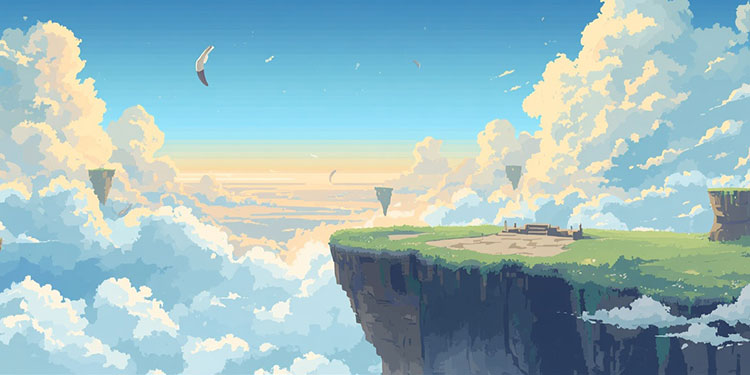
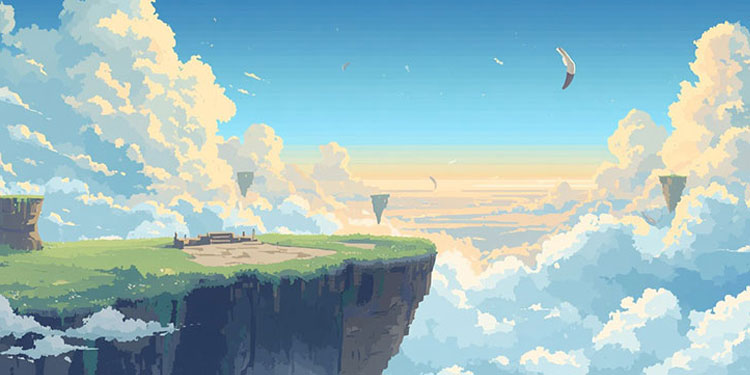
Add Pokemon Natures and a night-time route3 battle background
Natures: every starter/caught/gifted Pokemon now rolls one of 25
natures (+-10% to one battle stat, never HP), wired into damage and
speed calc, shown in the Lab/Pokedex popup, documented in the FAQ.

Adds battle-bg-route3.jpg to the random route battle backdrop pool,
paired with grass_night_base1 for its platform base since it's a
night scene, and updates Talon's Gym Leader background art.

diff --git a/game.js b/game.js
@@ -862,23 +862,19 @@
   const IMG_DIR_SHINY = "pixel_pack/shiny";
   const IMG_DIR_BACK = "pixel_pack/back";
   const WILD_COUNT = 9; // shown as three rows of 3
-  // "Easy" wild Pokémon = a high base_species_rate (top ~44% of the non-legendary
-  // pool). The first 2 encounters draw only from this pool; from encounter 3 on,
-  // easy slots progressively give way to the unrestricted pool (which can include
-  // rarer, lower catch-rate, higher-BST Pokémon), so difficulty ramps with progress.
-  // Lowered from 0.3 — widens the early-game pool (~469 -> ~590 species)
-  // so the "100%-easy" opening encounters (and the generation-diversity
-  // fallback below) have more raw variety to draw from, on top of the
-  // cross-run cooldown in freshWildPool() — the two together are meant to
-  // fix "every run's early encounters look the same".
-  const EASY_CATCH_RATE_MIN = 0.2;
+  // Three explicit BST bands instead of the old base_species_rate proxy for
+  // "easy" — the first 2 encounters draw only from the Easy band; from
+  // encounter 3 on, easy slots progressively give way to the Mid band
+  // (rarer, tougher catches), so difficulty ramps with progress.
+  const EASY_BST_MIN = 175, EASY_BST_MAX = 395;
+  const MID_BST_MIN = 230, MID_BST_MAX = 500;
   const ALL_EASY_ENCOUNTERS = 2;   // encounters 1 and 2 are 100% easy pool
   const MIN_EASY_SLOTS = 1;        // never fully removes the easy option
-  // Past 4 badges, wild encounters skew further toward rarer, stronger
+  // Past 5 badges, wild encounters skew further toward rarer, stronger
   // catches: 1 fewer easy slot, and non-easy slots preferentially pull from
-  // this high-BST pool instead of the fully unrestricted one.
-  const BADGES_FOR_RARITY_RAMP = 4;
-  const WILD_STRONG_MIN_BST = 420;
+  // this high-BST band instead of the Mid one.
+  const BADGES_FOR_RARITY_RAMP = 5;
+  const WILD_STRONG_MIN_BST = 400, WILD_STRONG_MAX_BST = 670;
   const BASE_BALL_COUNT = 5;
   const STARTING_GOLD = 50;
   const BASE_REROLL_COUNT = 1; // free wild-encounter rerolls per run (more buyable at the PokeStop)
@@ -1475,6 +1471,54 @@
     }
     return out;
   }
+  // ---------- NATURES ----------
+  // Each caught/starter/gifted Pokémon gets one nature, rolled once at the
+  // moment it becomes an individual (see rollNature() callers) and kept for
+  // the rest of the run (persists through evolution). +10%/-10% to one of
+  // attack/defense/sp_atk/sp_def/speed, never HP, matching the mainline
+  // games. 5 of the 25 are neutral (plus/minus both null).
+  const NATURES = [
+    { name:'Hardy',   plus:null,      minus:null },
+    { name:'Lonely',  plus:'attack',  minus:'defense' },
+    { name:'Brave',   plus:'attack',  minus:'speed' },
+    { name:'Adamant', plus:'attack',  minus:'sp_atk' },
+    { name:'Naughty', plus:'attack',  minus:'sp_def' },
+    { name:'Bold',    plus:'defense', minus:'attack' },
+    { name:'Docile',  plus:null,      minus:null },
+    { name:'Relaxed', plus:'defense', minus:'speed' },
+    { name:'Impish',  plus:'defense', minus:'sp_atk' },
+    { name:'Lax',     plus:'defense', minus:'sp_def' },
+    { name:'Timid',   plus:'speed',   minus:'attack' },
+    { name:'Hasty',   plus:'speed',   minus:'defense' },
+    { name:'Serious', plus:null,      minus:null },
+    { name:'Jolly',   plus:'speed',   minus:'sp_atk' },
+    { name:'Naive',   plus:'speed',   minus:'sp_def' },
+    { name:'Modest',  plus:'sp_atk',  minus:'attack' },
+    { name:'Mild',    plus:'sp_atk',  minus:'defense' },
+    { name:'Quiet',   plus:'sp_atk',  minus:'speed' },
+    { name:'Bashful', plus:null,      minus:null },
+    { name:'Rash',    plus:'sp_atk',  minus:'sp_def' },
+    { name:'Calm',    plus:'sp_def',  minus:'attack' },
+    { name:'Gentle',  plus:'sp_def',  minus:'defense' },
+    { name:'Sassy',   plus:'sp_def',  minus:'speed' },
+    { name:'Careful', plus:'sp_def',  minus:'sp_atk' },
+    { name:'Quirky',  plus:null,      minus:null },
+  ];
+  const NATURE_STAT_MULTIPLIER = 0.1;
+  function rollNature(){ return pick(NATURES); }
+
+  // Applies mon's nature to one of its base stats — HP is never passed
+  // in here, nature doesn't touch it. Used both for real damage/speed
+  // math (computeDamage(), effectiveSpeed()) and for the Pokédex stat
+  // display, so both stay in sync automatically.
+  function natureAdjustedStat(mon, statKey, baseValue){
+    const nature = mon && mon.nature;
+    if(!nature) return baseValue;
+    if(nature.plus === statKey) return Math.round(baseValue * (1 + NATURE_STAT_MULTIPLIER));
+    if(nature.minus === statKey) return Math.round(baseValue * (1 - NATURE_STAT_MULTIPLIER));
+    return baseValue;
+  }
+
   function initials(name){ return name.split(/[\s-]+/).map(w=>w[0]).slice(0,2).join('').toUpperCase(); }
   function imagePath(mon, variant){
     // Back sprites have no separate shiny set, so shinies fall back to the
@@ -1644,14 +1688,22 @@
   // meaningfully different at the high end instead of all maxing out.
   const POKEDEX_STAT_BAR_MAX = 200;
 
-  function pokedexStatRowsHTML(species){
+  // `mon` (the actual individual, for its .nature) is optional — omitted
+  // when this is showing a bare species (e.g. an evolution-line preview
+  // with no specific individual behind it), in which case no nature tag
+  // is shown at all.
+  function pokedexStatRowsHTML(species, mon){
+    const nature = mon && mon.nature;
     return POKEDEX_STAT_FIELDS.map(([field,label]) => {
       const val = species[field] || 0;
       const pct = Math.min(100, (val / POKEDEX_STAT_BAR_MAX) * 100);
+      const natureTag = nature && field !== 'hp' && (nature.plus === field || nature.minus === field)
+        ? `<span class="pokedex-stat-nature">${nature.plus === field ? '+' : '-'}${NATURE_STAT_MULTIPLIER * 100}%</span>`
+        : '';
       return `<div class="pokedex-stat-row">
         <span class="pokedex-stat-label">${label}</span>
         <div class="pokedex-stat-track"><div class="pokedex-stat-fill" style="width:${pct}%"></div></div>
-        <span class="pokedex-stat-val">${val}</span>
+        <span class="pokedex-stat-val">${val}${natureTag}</span>
       </div>`;
     }).join('');
   }
@@ -1738,11 +1790,12 @@
         <div class="pokedex-portrait">${avatarHTML(mon)}</div>
         <div class="tn">${displayName(mon.name)}${mon.is_shiny ? ' <span class="shiny-tag">SHINY</span>' : ''}</div>
         <div class="pokedex-types">${typeChipsHTML(mon.types)}</div>
+        ${mon.nature ? `<div class="pokedex-nature">${mon.nature.name} nature</div>` : ''}
       </div>
       ${canMega ? `<button class="btn-ghost pokedex-mega-btn" id="pokedexMegaBtn">MEGA EVOLVE (${inv.megaStone} Mega Stone${inv.megaStone === 1 ? '' : 's'} left)</button>` : ''}
       ${pokedexEvolutionHTML(mon)}
       <div class="team-mgmt-title" style="margin-top:10px;">Base Stats</div>
-      <div class="pokedex-stats">${pokedexStatRowsHTML(species)}</div>
+      <div class="pokedex-stats">${pokedexStatRowsHTML(species, mon)}</div>
       <div class="team-mgmt-title" style="margin-top:10px;">Moves</div>
       <div class="pokedex-moves">${pokedexMovesHTML(mon)}</div>
       <div class="team-mgmt-title" style="margin-top:10px;">Type Matchups</div>
@@ -3556,9 +3609,9 @@
 
   function selectStarter(mon){
     devGodModeRunActive = false; // a real run always clears any earlier God Mode test run's flag
-    starter = mon;
+    starter = { ...mon, nature: rollNature() };
     starterOriginalName = mon.name;
-    activeTeam = [mon];
+    activeTeam = [starter];
     storage_ = [];
     // Gold is per-run spending money, not a meta-progression currency — any
     // leftover from a previous run must not carry into this new one.
@@ -3812,11 +3865,21 @@
   }
 
   function wildEasyPool(){
-    return freshWildPool().filter(p => (p.base_species_rate ?? 0) >= EASY_CATCH_RATE_MIN);
+    return freshWildPool().filter(p => p.bst >= EASY_BST_MIN && p.bst <= EASY_BST_MAX);
+  }
+
+  // The "mid-run" tier (before BADGES_FOR_RARITY_RAMP) — a band rather than
+  // the fully unrestricted pool, so difficulty still ramps smoothly between
+  // Easy and Strong instead of jumping straight to "anything goes." The
+  // truly unrestricted freshWildPool() is kept as a fallback/backfill only
+  // (see pickWildChoices()), for the rare case a generation has nothing in
+  // this band left this run.
+  function wildMidPool(){
+    return freshWildPool().filter(p => p.bst >= MID_BST_MIN && p.bst <= MID_BST_MAX);
   }
 
   function wildStrongPool(){
-    return freshWildPool().filter(p => p.bst >= WILD_STRONG_MIN_BST);
+    return freshWildPool().filter(p => p.bst >= WILD_STRONG_MIN_BST && p.bst <= WILD_STRONG_MAX_BST);
   }
 
   // Builds this encounter's wild choices (WILD_COUNT of them). Early on it's all easy-to-catch
@@ -3838,6 +3901,7 @@
   function pickWildChoices(){
     const full = freshWildPool();
     const easy = wildEasyPool();
+    const mid = wildMidPool();
     const strong = wildStrongPool();
 
     let easySlots;
@@ -3854,7 +3918,7 @@
     const usedNames = new Set();
     const result = [];
     gensShuffled.forEach(g => {
-      const tierPool = easyGens.has(g.gen) ? easy : (useStrongForRest ? strong : full);
+      const tierPool = easyGens.has(g.gen) ? easy : (useStrongForRest ? strong : mid);
       let candidates = tierPool.filter(p => generationOf(p.id) === g.gen && !usedNames.has(p.name));
       if(!candidates.length) candidates = full.filter(p => generationOf(p.id) === g.gen && !usedNames.has(p.name));
       if(!candidates.length) return; // nothing left for this generation this run — backfilled below
@@ -4279,13 +4343,17 @@
   // counters, omitted for a normal wild-encounter catch, which counts toward
   // neither.
   function catchWildTarget(mon, source){
-    if(activeTeam.length < MAX_PARTY_SIZE) activeTeam.push(mon);
-    else storage_.push(mon);
-    flagComputerNotification(mon.name);
-    logCatch(mon.name);
+    // Always a fresh individual copy (never the shared POKEMON_BY_NAME/pool
+    // reference) so its own rolled nature never leaks onto every other
+    // encounter of the same species.
+    const caught = { ...mon, nature: rollNature() };
+    if(activeTeam.length < MAX_PARTY_SIZE) activeTeam.push(caught);
+    else storage_.push(caught);
+    flagComputerNotification(caught.name);
+    logCatch(caught.name);
     if(source === 'safari') safariCatchCount++;
     else if(source === 'fishing') fishingCatchCount++;
-    return maybeDittoCopy(mon);
+    return maybeDittoCopy(caught);
   }
 
   // Ditto: transforms into / copies whatever it's near — a small chance a
@@ -4296,7 +4364,7 @@
   function maybeDittoCopy(mon){
     if(!hasActiveSpecies(n => n === 'ditto')) return null;
     if(Math.random() >= DITTO_COPY_CHANCE) return null;
-    const copy = { ...mon };
+    const copy = { ...mon, nature: rollNature() };
     storage_.push(copy);
     logCatch(copy.name);
     return copy;
@@ -5285,7 +5353,7 @@
   // matching the mainline games. Raw mon.speed is still what's stored/shown
   // everywhere else (team screens, Pokédex, etc).
   function effectiveSpeed(b){
-    const spd = b.mon.speed || 0;
+    const spd = natureAdjustedStat(b.mon, 'speed', b.mon.speed || 0);
     return (b.status && b.status.type === 'paralyze') ? spd * PARALYSIS_SPEED_MULTIPLIER : spd;
   }
 
@@ -5403,8 +5471,10 @@
       return { dmg: canCounter ? Math.max(1, taken.amount * 2) : 0, eff, crit:false, failed: !canCounter };
     }
 
-    const atkStat = move.damage_class === 'special' ? (attacker.mon.sp_atk || 40) : (attacker.mon.attack || 40);
-    const defStat = move.damage_class === 'special' ? (defender.mon.sp_def || 40) : (defender.mon.defense || 40);
+    const atkStatKey = move.damage_class === 'special' ? 'sp_atk' : 'attack';
+    const defStatKey = move.damage_class === 'special' ? 'sp_def' : 'defense';
+    const atkStat = natureAdjustedStat(attacker.mon, atkStatKey, attacker.mon[atkStatKey] || 40);
+    const defStat = natureAdjustedStat(defender.mon, defStatKey, defender.mon[defStatKey] || 40);
     const { stab, eff } = stabAndEffectiveness(attacker, defender, move);
     const base = ((2*50/5 + 2) * move.power * (atkStat/Math.max(1,defStat))) / 50 + 2;
     const variance = rand(0.85, 1.0);
@@ -5514,7 +5584,8 @@
     const currentMon = activeTeam[idx];
     delete evolvePityMisses[currentMon.name];
     const evolvedBase = rollRegionalEvolution(POKEMON_BY_NAME[pick(evolutionOptionsFor(currentMon.name))]);
-    const evolved = (currentMon.is_shiny && canBeShiny(evolvedBase)) ? { ...evolvedBase, is_shiny:true } : evolvedBase;
+    const evolved = { ...evolvedBase, nature: currentMon.nature,
+      ...((currentMon.is_shiny && canBeShiny(evolvedBase)) ? { is_shiny:true } : {}) };
     activeTeam[idx] = evolved;
     if(currentMon === starter) starter = evolved; // keep the starter reference current through evolution
     return { from: currentMon, to: evolved };
@@ -5540,7 +5611,8 @@
     if(!forms || !forms.length) return null;
     const chosenName = (formName && forms.includes(formName)) ? formName : forms[0];
     const evolvedBase = POKEMON_BY_NAME[chosenName];
-    const evolved = (currentMon.is_shiny && canBeShiny(evolvedBase)) ? { ...evolvedBase, is_shiny:true } : evolvedBase;
+    const evolved = { ...evolvedBase, nature: currentMon.nature,
+      ...((currentMon.is_shiny && canBeShiny(evolvedBase)) ? { is_shiny:true } : {}) };
     activeTeam[idx] = evolved;
     if(currentMon === starter) starter = evolved;
     return { from: currentMon, to: evolved, isMega:true };
@@ -5715,7 +5787,9 @@
       if(rayquaza) legendaryPool.push(rayquaza);
     }
     let legendaryMon = pick(legendaryPool);
-    if(canBeShiny(legendaryMon) && Math.random() < SHINY_CHANCE) legendaryMon = { ...legendaryMon, is_shiny:true };
+    legendaryMon = (canBeShiny(legendaryMon) && Math.random() < SHINY_CHANCE)
+      ? { ...legendaryMon, is_shiny:true, nature: rollNature() }
+      : { ...legendaryMon, nature: rollNature() };
     openSpecialIntro(legendaryMon, 'legendary');
   }
 
@@ -5758,7 +5832,9 @@
   function startMythicalBattle(){
     const mythicalPool = POKEMON.filter(p => p.id <= NATIONAL_DEX_MAX && MYTHICAL_POKEMON.includes(p.name));
     let mythicalMon = pick(mythicalPool);
-    if(canBeShiny(mythicalMon) && Math.random() < SHINY_CHANCE) mythicalMon = { ...mythicalMon, is_shiny:true };
+    mythicalMon = (canBeShiny(mythicalMon) && Math.random() < SHINY_CHANCE)
+      ? { ...mythicalMon, is_shiny:true, nature: rollNature() }
+      : { ...mythicalMon, nature: rollNature() };
     openSpecialIntro(mythicalMon, 'mythical');
   }
 
@@ -5886,7 +5962,7 @@
         <span class="c-name">${displayName(m.name)}${m.is_shiny ? ' <span class="shiny-tag">SHINY</span>' : ''}</span>
         <div class="pick-tooltip">
           <div class="c-types">${typeChipsHTML(m.types)}</div>
-          <div class="pokedex-stats">${pokedexStatRowsHTML(species)}</div>
+          <div class="pokedex-stats">${pokedexStatRowsHTML(species, m)}</div>
           ${legendaryMatchupHTML(m, mon)}
         </div>
       </button>`;
@@ -6356,7 +6432,7 @@
   // Elite/Legendary/Mythical/Hill, all of which get their own dedicated art
   // below — alternate between these two so route fights don't all look
   // identical, picked fresh each time a battle starts.
-  const ROUTE_BATTLE_BACKGROUNDS = ["assets/Scenarios/battle-bg-route1.jpg", "assets/Scenarios/battle-bg-route2.jpg"];
+  const ROUTE_BATTLE_BACKGROUNDS = ["assets/Scenarios/battle-bg-route1.jpg", "assets/Scenarios/battle-bg-route2.jpg", "assets/Scenarios/battle-bg-route3.jpg"];
   function randomRouteBattleBg(){ return pick(ROUTE_BATTLE_BACKGROUNDS); }
   function isPlainRouteTrainer(opponent){
     return !(opponent.isGym || opponent.isCruise || opponent.isRival || opponent.isElite || opponent.isLegendary || opponent.isMythical || opponent.isHillTop1 || opponent.isInfiniteLoop);
@@ -7901,7 +7977,7 @@
     const catchable = catchablePool().filter(p => !MYTHICAL_POKEMON.includes(p.name) && !p.types.includes('dragon'));
     const avgBst = tradeGiveCandidates.reduce((sum, c) => sum + c.mon.bst, 0) / tradeGiveCandidates.length;
     const banded = catchable.filter(p => p.bst >= avgBst * 0.8 && p.bst <= avgBst * 1.2);
-    tradeOfferMon = pick(banded.length ? banded : catchable);
+    tradeOfferMon = { ...pick(banded.length ? banded : catchable), nature: rollNature() };
 
     document.getElementById('tradeOfferHeading').textContent = `${trainer.name} wants to trade!`;
     renderTradeOfferPhase();
@@ -8355,7 +8431,11 @@
   // Shop's Token Exchange), so canBeShiny() is filtered in here rather than
   // at each call site, no species without shiny art can ever be offered.
   function tokenExchangePool(){
-    return catchablePool().filter(p => !MYTHICAL_POKEMON.includes(p.name) && isFinalEvolutionStage(p.name) && canBeShiny(p));
+    // !p.legendary is already implied by catchablePool() -> wildPool()
+    // upstream, but spelled out explicitly here too since a Key Prize
+    // Legendary/Mythical would badly undercut the real Legendary/Mythical
+    // encounters if that upstream filter ever changed.
+    return catchablePool().filter(p => !p.legendary && !MYTHICAL_POKEMON.includes(p.name) && isFinalEvolutionStage(p.name) && canBeShiny(p));
   }
 
   // Same row system as the PokeStop's own shop (renderPokestopShopGrid()) —
@@ -8392,7 +8472,7 @@
     casinoTokens -= item.cost;
     if(item.isExchange){
       const pool = tokenExchangePool();
-      const won = pool.length ? { ...pick(pool), is_shiny:true } : null;
+      const won = pool.length ? { ...pick(pool), is_shiny:true, nature: rollNature() } : null;
       if(won){
         if(activeTeam.length < MAX_PARTY_SIZE) activeTeam.push(won); else storage_.push(won);
         flagComputerNotification(won.name);
@@ -9161,6 +9241,7 @@
   const ROUTE_TRAINER_BASE_IMGS = {
     "assets/Scenarios/battle-bg-route1.jpg": "assets/pokemon-game-assets/Graphics/Battlebacks/grass_base1.png",
     "assets/Scenarios/battle-bg-route2.jpg": "assets/pokemon-game-assets/Graphics/Battlebacks/grass_eve_base1.png",
+    "assets/Scenarios/battle-bg-route3.jpg": "assets/pokemon-game-assets/Graphics/Battlebacks/grass_night_base1.png",
   };
   const RIVAL_FINAL_BATTLE_BASE_IMG = "assets/pokemon-game-assets/Graphics/Battlebacks/unused/glass1_base1.png";
   function battleBaseImg(trainer){

diff --git a/style.css b/style.css
@@ -1133,6 +1133,7 @@ button:disabled{ opacity:.35; cursor:default; }
 .pokedex-portrait{ width:68px; margin:0 auto 4px; }
 .pokedex-header .tn{ font-weight:700; font-size:14px; text-transform:capitalize; }
 .pokedex-types{ margin-top:3px; }
+.pokedex-nature{ margin-top:4px; font-family:'JetBrains Mono',monospace; font-size:10px; letter-spacing:.05em; color:#c9a8ff; text-transform:uppercase; }
 /* Mega Evolve action (see openPokedex()) — only rendered when this entry is
    an active-team member, is Mega-capable, and the player has a stone. */
 .pokedex-mega-btn{ width:100%; margin-top:10px; border-color:var(--lime); color:var(--lime); font-size:12px; }
@@ -1140,7 +1141,8 @@ button:disabled{ opacity:.35; cursor:default; }
 .pokedex-stat-label{ width:48px; flex-shrink:0; font-family:'JetBrains Mono',monospace; font-size:9px; color:var(--text-faint); }
 .pokedex-stat-track{ flex:1; height:5px; border-radius:3px; background:var(--bg); overflow:hidden; }
 .pokedex-stat-fill{ height:100%; background:var(--lime); }
-.pokedex-stat-val{ width:26px; text-align:right; flex-shrink:0; font-size:10.5px; font-weight:700; }
+.pokedex-stat-val{ min-width:26px; text-align:right; flex-shrink:0; font-size:10.5px; font-weight:700; white-space:nowrap; }
+.pokedex-stat-nature{ margin-left:3px; font-family:'JetBrains Mono',monospace; font-size:9px; font-weight:700; color:#c9a8ff; }
 .pokedex-move-row{ display:flex; justify-content:space-between; align-items:baseline; gap:8px; padding:3px 0; border-bottom:1px solid var(--line); }
 .pokedex-move-row:last-child{ border-bottom:none; }
 .pokedex-move-name{ font-weight:700; font-size:12px; text-transform:capitalize; }

diff --git a/faq.html b/faq.html
@@ -5,7 +5,7 @@
 <meta name="viewport" content="width=device-width, initial-scale=1">
 <title>FAQ - Rinne</title>
 <link rel="icon" type="image/png" href="assets/website/favicon.png">
-<link rel="stylesheet" href="style.css?v=202608022995">
+<link rel="stylesheet" href="style.css?v=202608031200">
 <style>
   .faq-page{ width:100%; max-width:640px; text-align:left; }
   .faq-back{ display:inline-block; margin-bottom:20px; }
@@ -51,6 +51,7 @@
     <li><a href="#status-effects">Battle status effects</a></li>
     <li><a href="#struggle">Struggle</a></li>
     <li><a href="#shiny">Shiny Pokemon</a></li>
+    <li><a href="#nature">Nature</a></li>
     <li><a href="#multi-path-evolution">Multi-path evolution</a></li>
     <li><a href="#special-abilities">Pokemon special abilities</a></li>
     <li><a href="#fishing">Fishing</a></li>
@@ -117,6 +118,11 @@
     <p>Every wild encounter, starter pick, and Legendary/Mythical encounter has a small, independent chance of turning up Shiny.</p>
   </div>
 
+  <div class="faq-section" id="nature">
+    <h2>Nature</h2>
+    <p>Every Pokemon you catch, receive, or pick as a starter is randomly assigned one of 25 Natures, shown in its Pokedex entry. A Nature boosts one stat by 10% and cuts a different one by 10% (HP is never affected); 5 of the 25 Natures are neutral and change nothing.</p>
+    <p>The boosted and cut stats are marked directly on the Pokedex stat bars. A Nature is rolled once, when the Pokemon is caught, and stays with it for the rest of the run, evolving doesn't change it.</p>
+  </div>
 
   <div class="faq-section" id="multi-path-evolution">
     <h2>Multi-path evolution</h2>

diff --git a/index.html b/index.html
@@ -29,7 +29,7 @@
      immediately instead of possibly sitting behind a stale browser cache
      (these have no build step, so nothing else invalidates them). Bump this
      to today's date+time (YYYYMMDDHHmm) whenever any of those 3 files change. -->
-<link rel="stylesheet" href="style.css?v=202608023026">
+<link rel="stylesheet" href="style.css?v=202608031200">
 </head>
 <body>
 <button class="btn-ghost" id="abandonRunBtn" style="display:none; position:fixed; top:14px; right:14px; width:auto; padding:8px 14px; font-size:11px; z-index:50;">END RUN</button>
@@ -697,7 +697,7 @@
 
 <script src="https://cdn.jsdelivr.net/npm/@supabase/supabase-js@2/dist/umd/supabase.js"></script>
 <script src="evolution.js?v=202608022830"></script>
-<script src="game.js?v=202608023035"></script>
+<script src="game.js?v=202608031530"></script>
 <script src="run_saves.js?v=202608022830"></script>
 
 <!-- GoatCounter: lightweight, cookie-free site-visit analytics (unique
